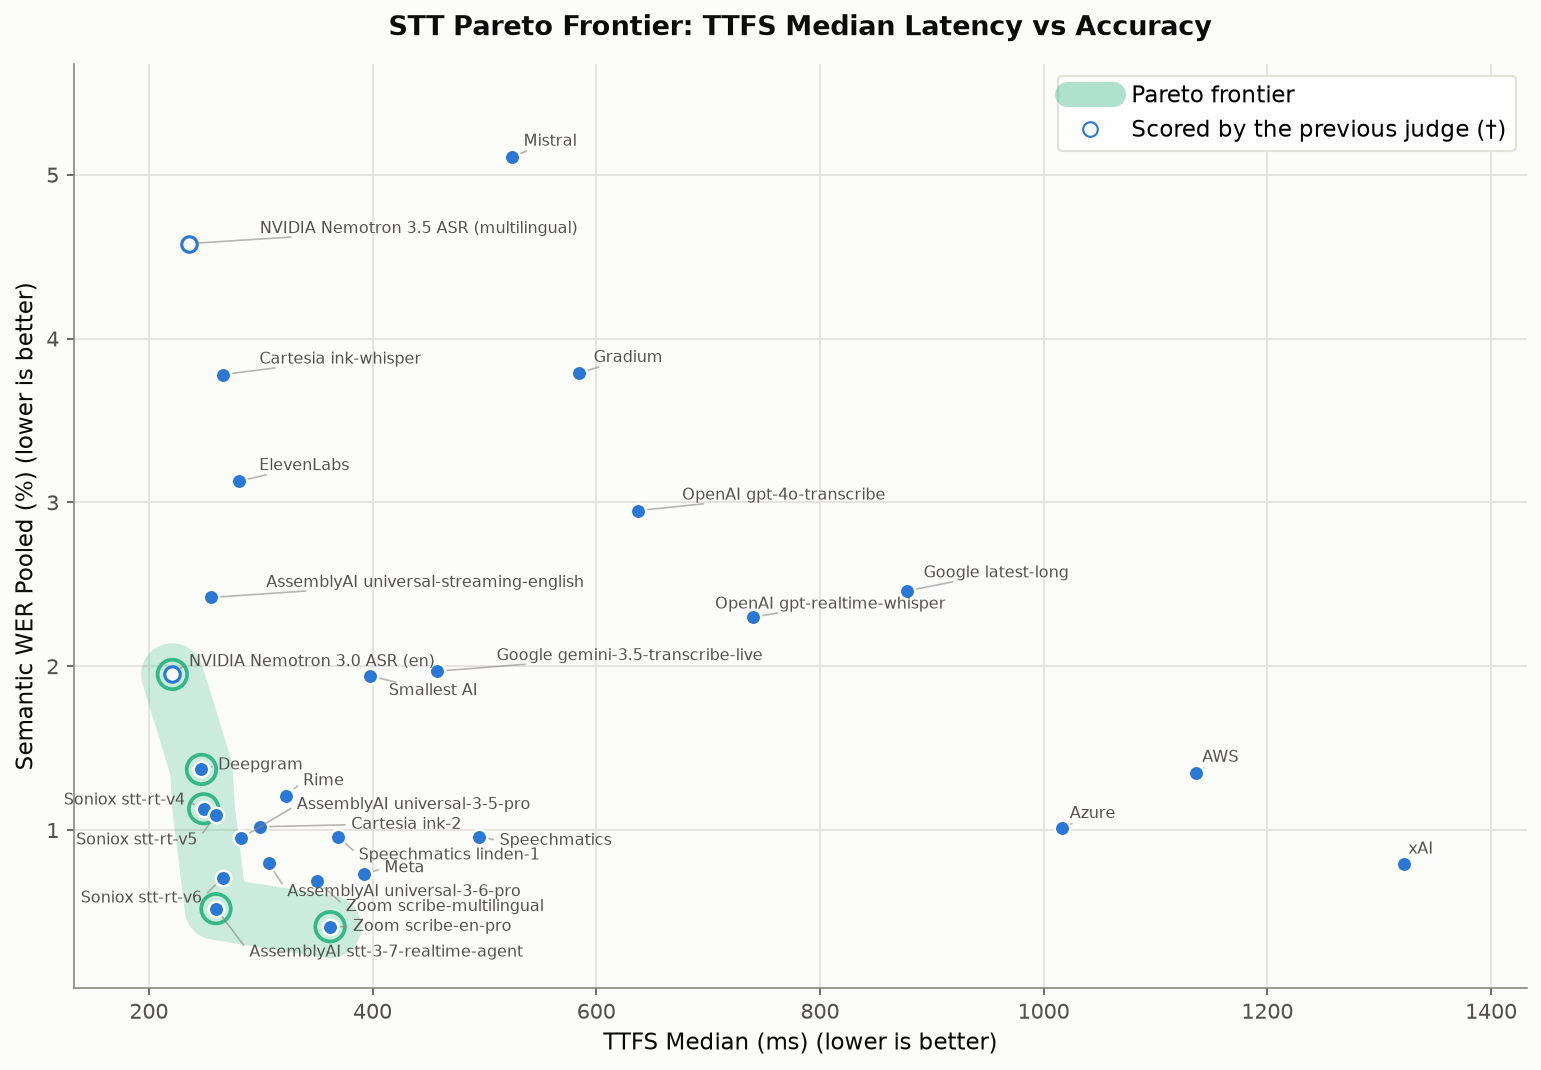
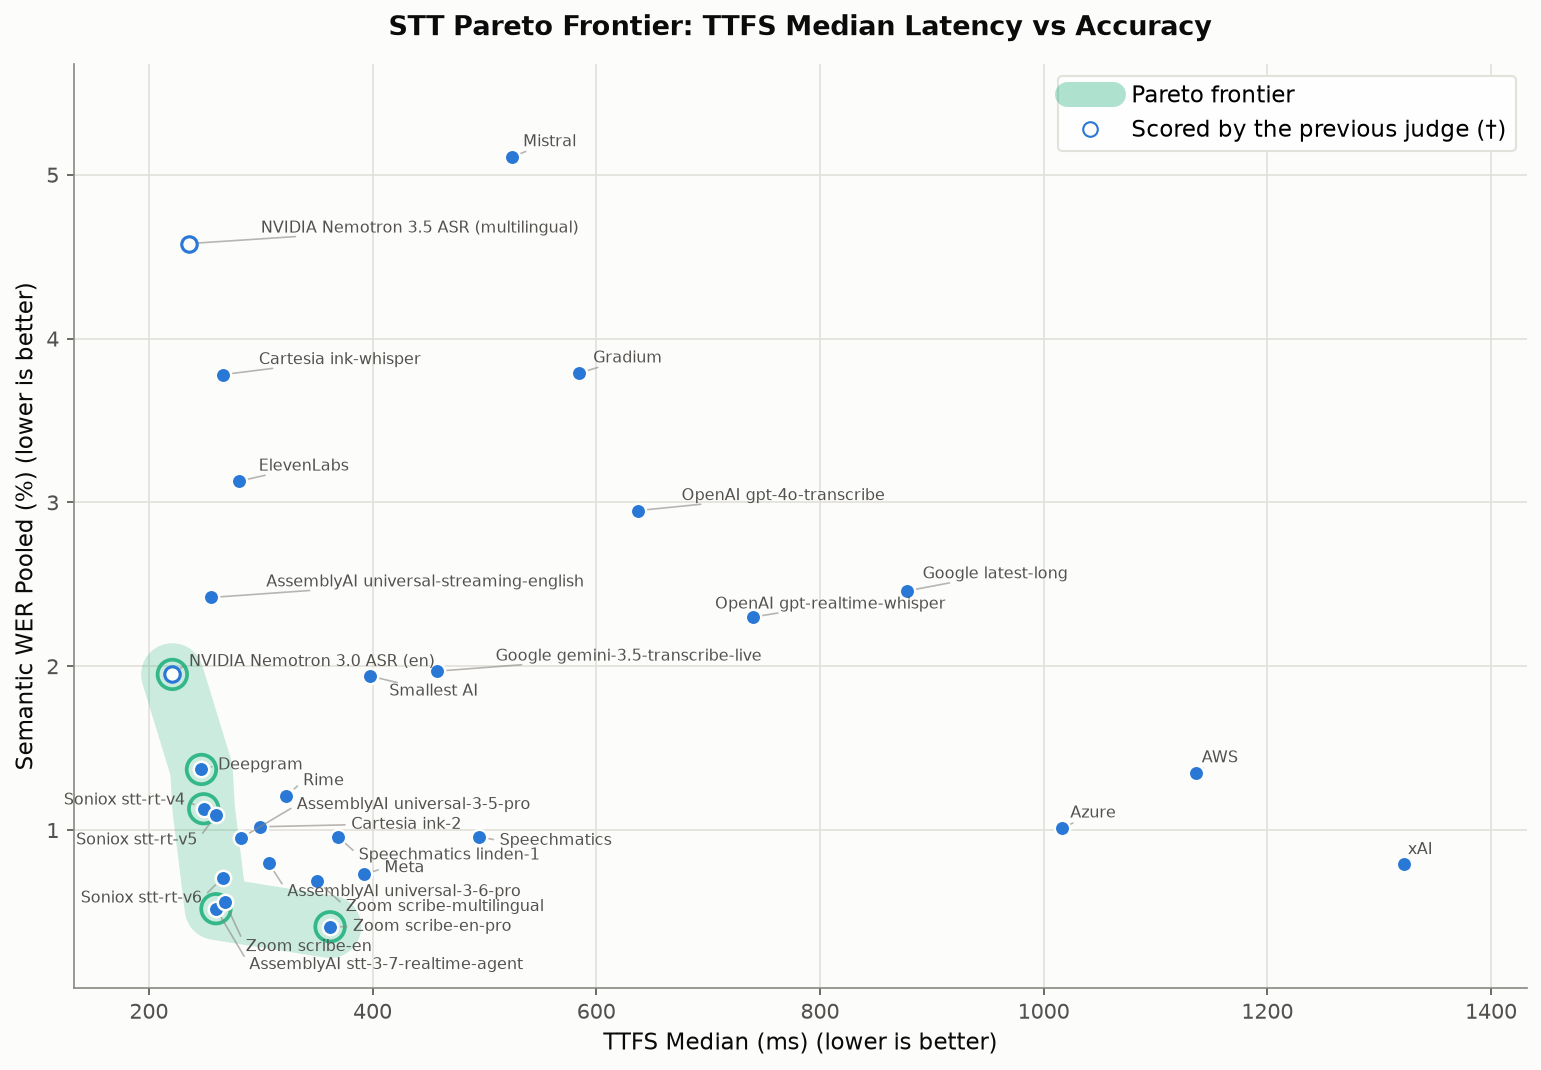
Add zoom-scribe-en and its results

diff --git a/src/stt_benchmark/services.py b/src/stt_benchmark/services.py
@@ -613,6 +613,11 @@ def create_zoom() -> FrameProcessor:
     return _create_zoom("zoom-scribe-multilingual")
 
 
+# zoom-scribe-en: Scribe's standard English model.
+def create_zoom_scribe_en() -> FrameProcessor:
+    return _create_zoom("zoom-scribe-en")
+
+
 # zoom-scribe-en-pro: Scribe's premium English model; the key needs premium-model
 # access. A separate tier from the standard models, not a successor to them.
 def create_zoom_scribe_en_pro() -> FrameProcessor:
@@ -863,6 +868,12 @@ STT_SERVICES: dict[str, ServiceDefinition] = {
         factory=create_zoom,
         vendor="Zoom",
         model_label="zoom-scribe-multilingual",
+        required_env_vars=["ZOOM_AI_API_KEY"],
+    ),
+    "zoom_scribe_en": ServiceDefinition(
+        factory=create_zoom_scribe_en,
+        vendor="Zoom",
+        model_label="zoom-scribe-en",
         required_env_vars=["ZOOM_AI_API_KEY"],
     ),
     "zoom_scribe_en_pro": ServiceDefinition(

diff --git a/scripts/pareto-frontier-plot.py b/scripts/pareto-frontier-plot.py
@@ -58,7 +58,8 @@ DEFAULT_LABEL_OFFSETS = {
         "Speechmatics linden-1": (10, -9, "left"),
         "AssemblyAI universal-3-6-pro": (9, -14, "left"),
         "Meta": (10, 3, "left"),
-        "AssemblyAI stt-3-7-realtime-agent": (16, -21, "left"),
+        "AssemblyAI stt-3-7-realtime-agent": (16, -27, "left"),
+        "Zoom scribe-en": (10, -21.5, "left"),
         "Zoom scribe-en-pro": (11, 0, "left"),
         "Zoom scribe-multilingual": (14, -12.5, "left"),
     },

diff --git a/src/stt_benchmark/models.py b/src/stt_benchmark/models.py
@@ -53,6 +53,7 @@ class ServiceName(StrEnum):
     WHISPER = "whisper"
     XAI = "xai"
     ZOOM = "zoom"
+    ZOOM_SCRIBE_EN = "zoom_scribe_en"
     ZOOM_SCRIBE_EN_PRO = "zoom_scribe_en_pro"
 
 

diff --git a/README.md b/README.md
@@ -54,6 +54,7 @@ Benchmark results on 1000 samples from the `pipecat-ai/smart-turn-data-v3.1-trai
 | Speechmatics | linden-1 | 99.5% | 83.9% | 1.11% | 0.96% | 369ms | 438ms | 690ms |
 | Speechmatics | N/A | 99.7% | 83.1% | 1.17% | 0.96% | 495ms | 676ms | 736ms |
 | xAI | grok-voice-transcribe-2.0 | 99.8% | 89.4% | 1.12% | 0.79% | 1322ms | 1895ms | 2148ms |
+| Zoom | zoom-scribe-en | 99.4% | 91.1% | 0.65% | 0.56% | 268ms | 368ms | 414ms |
 | Zoom | zoom-scribe-en-pro | 100.0% | 93.5% | 0.54% | 0.41% | 362ms | 572ms | 655ms |
 | Zoom | zoom-scribe-multilingual | 99.5% | 90.2% | 0.74% | 0.69% | 350ms | 526ms | 631ms |
 <!-- RESULTS_TABLE:END -->
